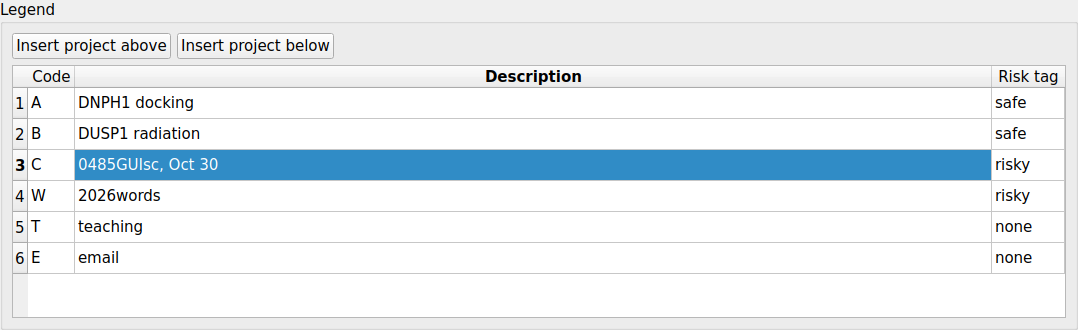
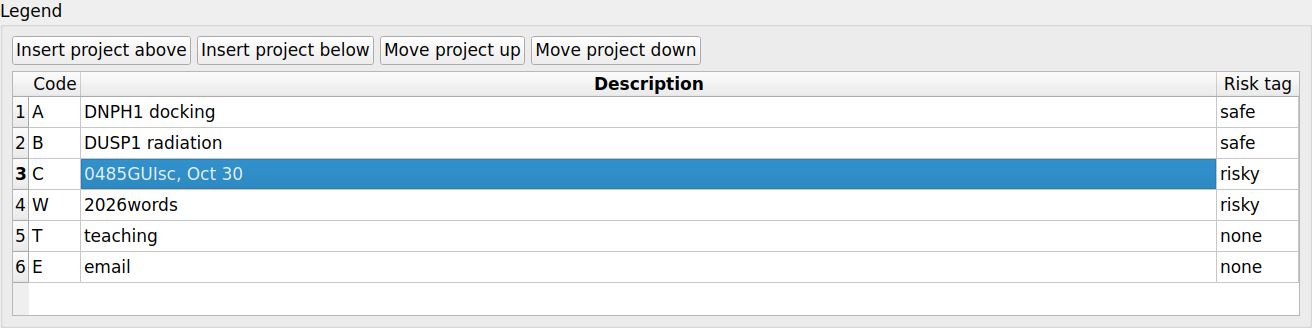
Updated.

Changed region(s): [[0.0, 0.0915, 1.0, 0.8841], [0.0, 0.0, 0.0612, 0.061]]

diff --git a/docs/gui.md b/docs/gui.md
@@ -105,7 +105,8 @@ once. Section rows and the time column refuse edits, because they belong to the
 file rather than to the week. Clicking a time does something else, which
 [Finding the times that do not overlap](#finding-the-times-that-do-not-overlap)
 describes. The legend table below the grid edits the code, the description, and
-the risk tag, which is one of `none`, `safe`, and `risky`.
+the risk tag, which is one of `none`, `safe`, and `risky`. Four buttons above
+the legend insert a project or move the selected one, as described below.
 
 **Every edit rewrites one line of the file.** A value that fits its column keeps
 the table aligned; a longer value widens its own slot and leaves the rest alone,
@@ -258,6 +259,31 @@ a cell and then deleted, so a typo leaves nothing behind. A blank project read
 from the file is kept too. A blank entry is written as `C:`, which both this
 editor and the scheduler read as a legend row rather than as a section header.
 
+### Moving a project up or down in the legend
+
+Two more buttons above the legend table, **Move project up** and
+**Move project down**, shift the selected entry by one row. Alt+Up and Alt+Down
+do the same while the legend has the focus. Each pair of keys belongs to its
+own table, so the keys move a time block when the grid has the focus and a
+project when the legend has it. The entry stays selected in the same column, so
+pressing again keeps moving the same project.
+
+![The legend after moving project W to the top, with Move project up greyed out.](imgs/gui-move-project.png)
+
+A project trades places with the legend entry beside it, so it never leaves the
+legend and never passes a row of the grid. The first entry cannot move up and
+the last cannot move down, and the matching button turns grey. Moving a project
+changes nothing in the grid, the totals, or the canonical name.
+
+The order is not only cosmetic. When a code is defined twice, both the editor
+and the scheduler keep the first definition, so moving the second definition
+above the first changes which description and risk tag the tools use. The
+Legend panel lists any code defined more than once, so you can see which one
+now wins.
+
+As with a block, the line is moved rather than rewritten. A move swaps two lines
+of the saved file, and a move up undoes a move down byte for byte.
+
 ### Opening the table in your own editor
 
 **Open in editor**, to the right of **Reload**, opens the table file in your
@@ -332,7 +358,8 @@ without the extra skips the graphical tests rather than failing them.
 | **Insert above** and **Insert below** are greyed out | no grid cell is selected; click any cell of a time block or a section header |
 | **Move up** and **Move down** are both greyed out | the selection is a section header, or no cell is selected; click a cell of a time block |
 | **Move up** alone is greyed out | the block is the first row under the first section header, so it has nowhere above to go |
-| Alt+Up or Alt+Down does nothing | the grid does not have the focus; click a cell of the grid first |
+| Alt+Up or Alt+Down does nothing | neither the grid nor the legend has the focus; click a cell of the table you want to reorder first |
+| **Move project up** and **Move project down** are both greyed out | no legend entry is selected; click any cell of a legend row |
 
 ## Licensing
 
